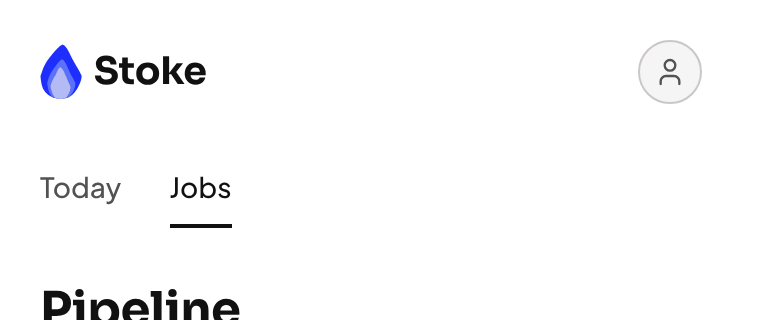
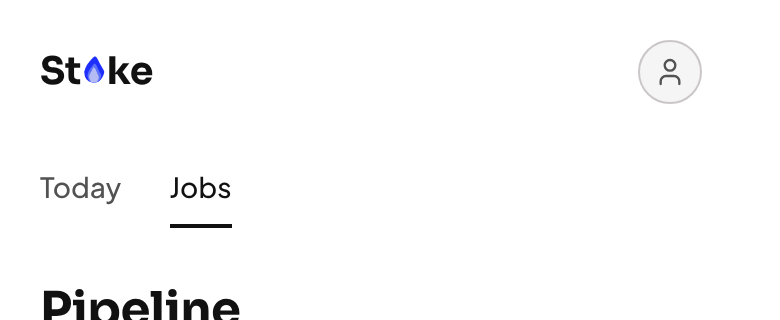
Wordmark St(flame)ke; sign-in down to its controls
- src/brand/Wordmark.tsx + wordmarkMarkup.ts: the flame stands in for the o (BRAND.wordmark
  before/flame/after); the real o stays in the line, transparent, and the flame shares its grid
  cell on the baseline at 1cap, so box and advance match plain text (e2e within 1px, header and
  sign-in). aria-label names it; parts aria-hidden. Header, sign-in and og-image use it.
- Sign-in: wordmark, Email, Send link, Continue without an account; the title is for screen
  readers only, no paragraphs.

Claude-Session: https://claude.ai/code/session_01YAE7bWN3GD6KwZUTy3U3j9

Changed region(s): [[0.0308, 0.125, 0.2769, 0.3125]]

diff --git a/src/account/SignInDialog.tsx b/src/account/SignInDialog.tsx
@@ -1,30 +1,28 @@
 // Magic-link sign-in (#115 Phase 1; conventional passwordless pattern, 2026-10-17), opened from
 // the account menu or the sync nudge. A full-screen HDS Dialog (brand pass, 2026-10-29): the
-// flame and the wordmark, what the app does, one field and Send link; validation on submit; then
+// flame and the wordmark, one field and Send link, no other words; validation on submit; then
 // a "Check your email" state with Resend (30 s cooldown) and Use a different email. Both end in
 // Continue without an account, which only closes it. The screen is sized to the visual viewport
 // (useVisualViewportVars), so on a phone the iOS keyboard never covers the field or the button;
 // on a short one the brand shrinks (SignInDialog.css). Only the presentation lives here: sending
 // and every auth rule stay in the CloudSync seam.
 import { useEffect, useRef, useState, type FormEvent } from 'react';
-import { Alert, Button, Dialog, Input, Stack, Text } from '@hirobius/design-system';
+import { Alert, Button, Dialog, Input, Stack, Text, VisuallyHidden } from '@hirobius/design-system';
 import { Form } from '@hirobius/design-system/patterns';
 import { refocusAccount, useCloudSync } from './accountContext';
 import { emailProblem } from './signInErrors';
 import { useVisualViewportVars } from '../hds-gaps/useVisualViewportVars';
 import { useBackCloses } from '../useBackCloses';
-import { BRAND } from '../brand';
-import { Flame } from '../brand/Flame';
+import { Wordmark } from '../brand/Wordmark';
 import './SignInDialog.css';
 
 export const RESEND_COOLDOWN_S = 30;
 
-/** The flame over the wordmark. The name is not a heading: the screen's title is Sign in. */
+/** The wordmark (the flame as its "o"). Not a heading: the screen's title is Sign in. */
 function SignInBrand() {
   return (
     <div className="rjb-signin-screen__brand">
-      <Flame reveal />
-      <p className="rjb-logo-word">{BRAND.name}</p>
+      <Wordmark as="p" />
     </div>
   );
 }
@@ -124,7 +122,7 @@ export default function SignInDialog() {
               </Dialog.Header>
               {sendError && <Alert tone="danger">{sendError}</Alert>}
               <Text variant="caption" as="p" role="status" tone="secondary">
-                {resent ? 'Sent again.' : 'Open it on this device to finish signing in.'}
+                {resent ? 'Sent again.' : ''}
               </Text>
               <Stack gap="tight">
                 <Button
@@ -146,15 +144,11 @@ export default function SignInDialog() {
             </>
           ) : (
             <>
-              <Dialog.Header>
+              {/* No words beyond the controls (Adrian 2026-10-29): the title names the screen
+                  for screen readers only. */}
+              <VisuallyHidden as="div">
                 <Dialog.Title>Sign in</Dialog.Title>
-                <Dialog.Description>
-                  Find roles, apply, and follow up in one place. Sign in to keep it on every device.
-                </Dialog.Description>
-              </Dialog.Header>
-              <Text variant="caption" as="p" tone="secondary">
-                We'll email you a link. No password needed.
-              </Text>
+              </VisuallyHidden>
               <Form noValidate onSubmit={(e) => void submit(e)}>
                 <Stack gap="normal">
                   <Input

diff --git a/src/account/SignInDialog.test.tsx b/src/account/SignInDialog.test.tsx
@@ -58,7 +58,8 @@ describe('SignInDialog', () => {
     expect(dialog).toHaveClass('rjb-signin-screen');
     const { flame, word } = brandOf(dialog);
     expect(flame).not.toBeNull();
-    expect(flame).toHaveAttribute('aria-hidden', 'true');
+    expect(flame?.closest('[aria-hidden="true"]')).not.toBeNull();
+    expect(flame?.closest('.rjb-wordmark-o')).not.toBeNull();
     expect(flame?.querySelector('svg')).not.toBeNull();
     expect(word).toHaveTextContent(BRAND.name);
     expect(word?.tagName).not.toMatch(/^H\d$/);
@@ -69,10 +70,20 @@ describe('SignInDialog', () => {
     ).toEqual(['Sign in']);
   });
 
-  it('says what the app does, then how sign-in works', () => {
+  it('shows only the flame, the wordmark, Email, Send link and Continue without an account', () => {
     const { dialog } = setup();
-    expect(dialog).toHaveAccessibleDescription(
-      'Find roles, apply, and follow up in one place. Sign in to keep it on every device.',
+    // No paragraphs (Adrian 2026-10-29): the title is for screen readers only.
+    expect(dialog.querySelectorAll('p:not(.rjb-logo-word)')).toHaveLength(0);
+    expect(
+      within(dialog).getByRole('heading', { name: 'Sign in' }).closest('.sr-only'),
+    ).not.toBeNull();
+    expect(
+      within(dialog)
+        .getAllByRole('button')
+        .map((b) => b.textContent),
+    ).toEqual(['Send link', 'Continue without an account']);
+    expect(dialog.textContent).toBe(
+      `${BRAND.name}Sign inEmailSend linkContinue without an account`,
     );
   });
 
@@ -87,7 +98,7 @@ describe('SignInDialog', () => {
     await userEvent.type(field(), 'me@example.com{Enter}');
     const dialog = await screen.findByRole('dialog', { name: 'Check your email' });
     const { flame, word } = brandOf(dialog);
-    expect(flame).toHaveAttribute('aria-hidden', 'true');
+    expect(flame?.closest('[aria-hidden="true"]')).not.toBeNull();
     expect(word).toHaveTextContent(BRAND.name);
     expect(within(dialog).getByRole('button', { name: 'Resend in 30s' })).toBeDisabled();
     expect(within(dialog).getByRole('button', { name: 'Use a different email' })).toBeEnabled();
@@ -100,9 +111,6 @@ describe('SignInDialog', () => {
   it('is titled Sign in, with one field and one primary button', () => {
     const { dialog } = setup();
     expect(screen.getByRole('dialog', { name: 'Sign in' })).toBe(dialog);
-    expect(
-      within(dialog).getByText("We'll email you a link. No password needed."),
-    ).toBeInTheDocument();
     expect(within(dialog).queryByRole('button', { name: 'Cancel' })).toBeNull();
     expect(dialog.textContent).not.toMatch(/supabase/i);
     const input = field();

diff --git a/src/brand/wordmark.test.tsx b/src/brand/wordmark.test.tsx
@@ -1,0 +1,57 @@
+// The wordmark: "St", the flame in place of the "o", "ke" (Adrian 2026-10-29). One markup builder
+// (wordmarkMarkup) serves the header, the sign-in screen and the og-image (npm run icons). Its box
+// matches the plain name because the real "o" stays in the line, transparent, and the flame sits
+// over it on the baseline; e2e/brand.spec.ts measures that in a real browser.
+import { afterEach, describe, expect, it } from 'vitest';
+import { cleanup, render, screen } from '@testing-library/react';
+import { readFileSync } from 'node:fs';
+import { BRAND } from '../brand';
+import { Wordmark } from './Wordmark';
+import { wordmarkMarkup } from './wordmarkMarkup';
+
+afterEach(cleanup);
+
+describe('Wordmark', () => {
+  it('is named for assistive tech; its parts and the flame are hidden', () => {
+    render(<Wordmark as="h1" />);
+    const h1 = screen.getByRole('heading', { level: 1, name: BRAND.name });
+    expect(h1).toHaveAttribute('aria-label', BRAND.name);
+    for (const part of h1.children) expect(part).toHaveAttribute('aria-hidden', 'true');
+  });
+
+  it('keeps the real letters in the line (copy and paste give the name), the o transparent', () => {
+    render(<Wordmark as="p" />);
+    const word = document.querySelector('.rjb-logo-word')!;
+    expect(word.textContent?.replace(/\s+/g, '')).toBe(BRAND.name);
+    const o = word.querySelector('.rjb-wordmark-o')!;
+    expect(o.querySelector('.rjb-wordmark-ghost')?.textContent).toBe(BRAND.wordmark.flame);
+    expect(o.querySelector('.rjb-flame svg path')).not.toBeNull();
+    const text = [...word.childNodes].map((n) => n.textContent?.trim());
+    expect(text[0]).toBe(BRAND.wordmark.before);
+    expect(text[2]).toBe(BRAND.wordmark.after);
+  });
+
+  it('two wordmarks never share a flame id', () => {
+    const { container } = render(
+      <>
+        <Wordmark as="span" />
+        <Wordmark as="span" />
+      </>,
+    );
+    const ids = [...container.querySelectorAll('[id]')].map((e) => e.id);
+    expect(new Set(ids).size).toBe(ids.length);
+  });
+
+  it('npm run icons draws the og-image wordmark from the same markup', () => {
+    const script = readFileSync('scripts/make-icons.mjs', 'utf8');
+    expect(script).toMatch(/wordmarkMarkup/);
+    expect(script).toMatch(/wordmark\.css/);
+    expect(wordmarkMarkup('<svg/>')).toContain('<svg/>');
+  });
+
+  it('sizes the flame from the font (cap height) and never changes line-height or tracking', () => {
+    const css = readFileSync('src/brand/wordmark.css', 'utf8');
+    expect(css).toMatch(/height:\s*1cap/);
+    expect(css).not.toMatch(/letter-spacing|line-height/);
+  });
+});

diff --git a/e2e/brand.spec.ts b/e2e/brand.spec.ts
@@ -45,3 +45,38 @@ test('the boot splash is the flame while the app loads, and React replaces it', 
   await expect(page.getByRole('heading', { level: 1 })).toBeVisible();
   await expect(page.locator('.rjb-boot')).toHaveCount(0);
 });
+
+// The wordmark's box is plain text's (the "o" stays in the line, the flame over it): width and
+// height within 1px of the bare name in the same element style, in the header and on sign-in.
+async function compareToPlain(page: import('@playwright/test').Page, selector: string) {
+  return page.evaluate((sel) => {
+    const word = document.querySelector(sel) as HTMLElement;
+    const plain = document.createElement(word.tagName === 'H1' ? 'h1' : 'p');
+    plain.className = word.className;
+    plain.textContent = word.getAttribute('aria-label');
+    plain.style.position = 'absolute';
+    plain.style.visibility = 'hidden';
+    word.parentElement!.appendChild(plain);
+    const a = word.getBoundingClientRect();
+    const b = plain.getBoundingClientRect();
+    plain.remove();
+    return { word: [a.width, a.height], plain: [b.width, b.height] };
+  }, selector);
+}
+
+test('the wordmark matches plain text: header and sign-in', async ({ page }) => {
+  await page.setViewportSize({ width: 390, height: 844 });
+  await page.goto('/#/queue');
+  await expect(page.locator('header h1 .rjb-flame svg')).toBeVisible();
+  const header = await compareToPlain(page, 'header h1.rjb-logo-word');
+  expect(Math.abs(header.word[0] - header.plain[0])).toBeLessThanOrEqual(1);
+  expect(Math.abs(header.word[1] - header.plain[1])).toBeLessThanOrEqual(1);
+
+  await page.getByRole('button', { name: /^Account/ }).click();
+  await page.getByRole('menuitem', { name: /^Sign in/ }).click();
+  const dialog = page.getByRole('dialog', { name: 'Sign in' });
+  await expect(dialog.locator('.rjb-logo-word .rjb-flame svg')).toBeVisible();
+  const signIn = await compareToPlain(page, '[role="dialog"] .rjb-logo-word');
+  expect(Math.abs(signIn.word[0] - signIn.plain[0])).toBeLessThanOrEqual(1);
+  expect(Math.abs(signIn.word[1] - signIn.plain[1])).toBeLessThanOrEqual(1);
+});

diff --git a/src/brand/Flame.tsx b/src/brand/Flame.tsx
@@ -5,7 +5,7 @@
 // In the app its layers take HDS primitives by class (`.flame-1..3` in base.css, light / dark);
 // a file without those classes shows its own fills.
 import { useId, useMemo } from 'react';
-import { BRAND } from '../brand';
+import { Wordmark } from './Wordmark';
 import { flameSvg, withUniqueIds } from './flameSvg';
 
 /** The flame alone. Decorative: whatever sits beside it carries the name. `reveal` plays the
@@ -23,15 +23,14 @@ export function Flame({ className, reveal = false }: { className?: string; revea
   );
 }
 
-/** The app bar lockup: the flame and the wordmark (the page's one h1), at `fontSize` px. */
+/** The app bar lockup: the wordmark (the page's one h1, the flame as its "o"), at `fontSize` px. */
 export function BrandLogo({ fontSize = 19 }: { fontSize?: number }) {
   return (
     <span
       className="rjb-logo"
       ref={(el) => el?.style.setProperty('--rjb-logo-size', `${fontSize}px`)}
     >
-      <Flame />
-      <h1 className="rjb-logo-word">{BRAND.name}</h1>
+      <Wordmark as="h1" />
     </span>
   );
 }

diff --git a/src/brand/wordmarkMarkup.ts b/src/brand/wordmarkMarkup.ts
@@ -1,0 +1,19 @@
+// The wordmark's markup, built once for the app (Wordmark.tsx) and for `npm run icons`
+// (the og-image), so both draw the same thing. Node-safe: no Vite imports. The real letter stays in
+// the line, transparent (`.rjb-wordmark-ghost`), so the word's box and advance are exactly plain
+// name; the flame sits over it on the baseline (wordmark.css).
+import { BRAND } from '../brand.ts';
+
+const esc = (s: string) => s.replace(/&/g, '&amp;').replace(/</g, '&lt;');
+
+/** The wordmark's inner HTML, given the flame's svg markup (ids already made unique). */
+export function wordmarkMarkup(flame: string): string {
+  const { before, flame: letter, after } = BRAND.wordmark;
+  return (
+    `<span aria-hidden="true">${esc(before)}</span>` +
+    `<span class="rjb-wordmark-o" aria-hidden="true">` +
+    `<span class="rjb-wordmark-ghost">${esc(letter)}</span>` +
+    `<span class="rjb-flame">${flame}</span></span>` +
+    `<span aria-hidden="true">${esc(after)}</span>`
+  );
+}

diff --git a/src/brand/Wordmark.tsx b/src/brand/Wordmark.tsx
@@ -1,0 +1,21 @@
+// The wordmark: "St", the flame in place of the "o", "ke" (Adrian 2026-10-29). Named for assistive
+// tech by aria-label; its parts and the flame are hidden. The markup is wordmarkMarkup's, shared
+// with the og-image; the flame is src/brand/flame.svg with its ids made unique per instance.
+import { useId, useMemo } from 'react';
+import { BRAND } from '../brand';
+import { flameSvg, withUniqueIds } from './flameSvg';
+import { wordmarkMarkup } from './wordmarkMarkup';
+import './wordmark.css';
+
+export function Wordmark({ as: Tag = 'span' }: { as?: 'h1' | 'p' | 'span' }) {
+  const suffix = useId().replace(/[^a-zA-Z0-9_-]/g, '');
+  const html = useMemo(() => wordmarkMarkup(withUniqueIds(flameSvg, suffix)), [suffix]);
+  return (
+    <Tag
+      className="rjb-logo-word"
+      aria-label={BRAND.name}
+      // The repo's own static markup (brand.ts + flame.svg), never user content.
+      dangerouslySetInnerHTML={{ __html: html }}
+    />
+  );
+}

diff --git a/src/brand/flame.test.tsx b/src/brand/flame.test.tsx
@@ -99,12 +99,11 @@ describe('derived from flame.svg', () => {
     for (const d of source) expect(root).toContain(d);
   });
 
-  it('the header lockup is the flame (decorative) then the wordmark h1', () => {
+  it('the header lockup is the wordmark h1, the flame from flame.svg as its "o"', () => {
     const { container } = render(<BrandLogo />);
     const h1 = screen.getByRole('heading', { level: 1, name: BRAND.name });
-    const flame = container.querySelector('.rjb-flame')!;
-    expect(flame.getAttribute('aria-hidden')).toBe('true');
-    expect(flame.compareDocumentPosition(h1) & Node.DOCUMENT_POSITION_FOLLOWING).toBeTruthy();
+    const flame = h1.querySelector('.rjb-wordmark-o .rjb-flame')!;
+    expect(flame.closest('[aria-hidden="true"]')).not.toBeNull();
     expect([...flame.querySelectorAll('path')].map((p) => p.getAttribute('d'))).toEqual(source);
     expect(container.querySelector('img, canvas')).toBeNull();
   });

diff --git a/src/brand/wordmark.css b/src/brand/wordmark.css
@@ -1,0 +1,27 @@
+/* The wordmark (Wordmark.tsx, wordmarkMarkup.ts; also inlined into the og-image by npm run icons).
+   The "o" stays in the line, transparent, so the word's box and advance are the plain name; the
+   flame shares its grid cell, centred on it, its bottom on the text baseline, as tall as a capital.
+   Nothing here touches the font's metrics or tracking. */
+.rjb-wordmark-o {
+  display: inline-grid;
+}
+.rjb-wordmark-o > * {
+  /* Both in the baseline group: the cell's baseline is the letter's, so the cell sits in the line
+     exactly where the "o" would and the flame's bottom lands on the text baseline. */
+  grid-area: 1 / 1;
+  align-self: baseline;
+}
+.rjb-wordmark-ghost {
+  color: transparent;
+}
+.rjb-wordmark-o > .rjb-flame {
+  justify-self: center;
+  display: block;
+}
+.rjb-wordmark-o > .rjb-flame svg {
+  display: block;
+  width: auto;
+  height: 0.7em;
+  height: 1cap;
+  overflow: visible;
+}

diff --git a/src/shell.test.tsx b/src/shell.test.tsx
@@ -120,14 +120,12 @@ describe('app shell (#115 Phase 1)', () => {
     );
   });
 
-  it('the flame sits left of the wordmark, hidden from assistive tech', () => {
+  it('the flame is the wordmark\'s "o", hidden from assistive tech', () => {
     renderApp();
     const wordmark = screen.getByRole('heading', { level: 1, name: BRAND.name });
-    const mark = wordmark.parentElement?.querySelector('.rjb-flame');
-    expect(mark).not.toBeNull();
-    expect(mark?.getAttribute('aria-hidden')).toBe('true');
+    const mark = wordmark.querySelector('.rjb-wordmark-o .rjb-flame');
+    expect(mark?.closest('[aria-hidden="true"]')).not.toBeNull();
     expect(mark?.querySelector('svg path')).not.toBeNull();
-    expect(mark!.compareDocumentPosition(wordmark) & Node.DOCUMENT_POSITION_FOLLOWING).toBeTruthy();
   });
 
   it('signed out, the account menu reads: device-only line, sign in | data | display | troubleshooting', async () => {

diff --git a/src/brand/flameSvg.ts b/src/brand/flameSvg.ts
@@ -4,9 +4,13 @@ import flameSvg from './flame.svg?raw';
 export { flameSvg };
 
 /** The file's markup with every id (and each `#id` reference, any quoting) suffixed, so two
- *  flames on one page never share a clip path. Leading comments go. */
+ *  flames on one page never share a clip path. Comments and the whitespace between tags go (inline in a word,
+ *  stray text nodes would sit in its textContent). */
 export function withUniqueIds(svg: string, suffix: string): string {
-  const out = svg.replace(/<!--[\s\S]*?-->\s*/g, '').trim();
+  const out = svg
+    .replace(/<!--[\s\S]*?-->\s*/g, '')
+    .replace(/>\s+</g, '><')
+    .trim();
   const ids = new Set([...out.matchAll(/\sid=["']([^"']+)["']/g)].map((m) => m[1]));
   const esc = (id: string) => id.replace(/[.*+?^${}()|[\]\\]/g, '\\$&');
   return [...ids].reduce(

diff --git a/src/brand.test.ts b/src/brand.test.ts
@@ -21,12 +21,14 @@ const sourceFiles = (dir: string): string[] =>
 describe('brand (#55)', () => {
   it('is Stoke (Adrian 2026-10-29; was RoleForge)', () => {
     expect(BRAND.name).toBe('Stoke');
-    expect(BRAND.wordmark).toEqual(['Stoke']);
+    // The flame stands in for the "o" (Adrian 2026-10-29): St🔥ke.
+    expect(BRAND.wordmark).toEqual({ before: 'St', flame: 'o', after: 'ke' });
     expect(BRAND.slug).toBe('stoke');
   });
 
   it('is internally consistent', () => {
-    expect(BRAND.wordmark.join('')).toBe(BRAND.name);
+    const { before, flame, after } = BRAND.wordmark;
+    expect(before + flame + after).toBe(BRAND.name);
     expect(BRAND.slug).toMatch(/^[a-z0-9-]+$/);
   });
 
